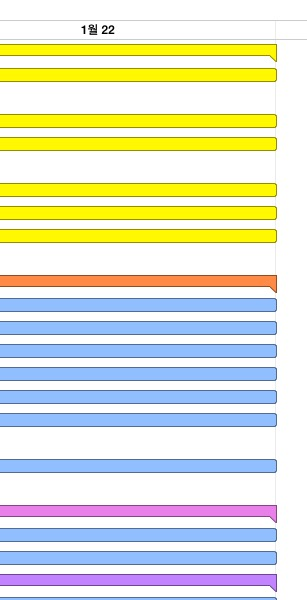
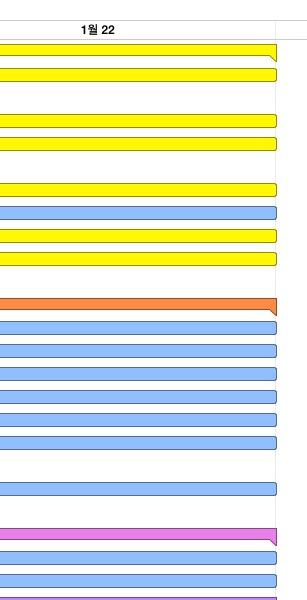
항목추가

Changed region(s): [[0.0, 0.72, 0.9088, 1.0], [0.0, 0.42, 0.9088, 0.54], [0.0, 0.33, 0.9088, 0.39]]

diff --git a/task.html b/task.html
@@ -132,7 +132,7 @@
             </tr>
             
             <tr class="taskTypeMilestone">
-                <td style="padding-left: 28px;" class="wrap">1.5) 기획완료</td>
+                <td style="padding-left: 28px;" class="wrap">1.5) 기획안 완료</td>
                 <td>2019. 1. 21. 오전 12:00</td>
                 <td>2019. 1. 21. 오전 12:00</td>
                 <td></td>
@@ -166,7 +166,7 @@
             </tr>
             
             <tr class="taskTypeTask">
-                <td style="padding-left: 28px;" class="wrap">1.7) 사이트 맵</td>
+                <td style="padding-left: 28px;" class="wrap">1.7) 기능정의서 완료</td>
                 <td>2019. 1. 21. 오전 11:00</td>
                 <td>2019. 1. 22. 오후 4:00</td>
                 <td>2일</td>
@@ -183,7 +183,24 @@
             </tr>
             
             <tr class="taskTypeTask">
-                <td style="padding-left: 28px;" class="wrap">1.8) 스토리 보드</td>
+                <td style="padding-left: 28px;" class="wrap">1.8) 사이트 맵</td>
+                <td>2019. 1. 21. 오전 11:00</td>
+                <td>2019. 1. 22. 오후 4:00</td>
+                <td>2일</td>
+                <td>0%</td>
+                <td></td>
+                <td align="right"></td>
+                <td></td>
+                <td></td>
+                <td></td>
+                <td></td>
+                <td></td>
+                <td></td>
+                <td></td>
+            </tr>
+            
+            <tr class="taskTypeTask">
+                <td style="padding-left: 28px;" class="wrap">1.9) 스토리 보드</td>
                 <td>2019. 1. 21. 오전 11:00</td>
                 <td>2019. 1. 22. 오후 4:00</td>
                 <td>2일</td>
@@ -200,7 +217,7 @@
             </tr>
             
             <tr class="taskTypeMilestone">
-                <td style="padding-left: 28px;" class="wrap">1.9) 스토리 보드 QA</td>
+                <td style="padding-left: 28px;" class="wrap">1.10) 스토리 보드 QA</td>
                 <td>2019. 1. 21. 오전 12:00</td>
                 <td>2019. 1. 21. 오전 12:00</td>
                 <td></td>

diff --git a/eva.html b/eva.html
@@ -138,7 +138,7 @@
 	</tr>
 		
 	<tr>
-		<td style="padding-left: 28px;" class="wrap">1.5) 기획완료</td>
+		<td style="padding-left: 28px;" class="wrap">1.5) 기획안 완료</td>
 		<td></td>
 		<td></td>
 		<td></td>
@@ -172,7 +172,7 @@
 	</tr>
 		
 	<tr>
-		<td style="padding-left: 28px;" class="wrap">1.7) 사이트 맵</td>
+		<td style="padding-left: 28px;" class="wrap">1.7) 기능정의서 완료</td>
 		<td></td>
 		<td></td>
 		<td></td>
@@ -189,7 +189,7 @@
 	</tr>
 		
 	<tr>
-		<td style="padding-left: 28px;" class="wrap">1.8) 스토리 보드</td>
+		<td style="padding-left: 28px;" class="wrap">1.8) 사이트 맵</td>
 		<td></td>
 		<td></td>
 		<td></td>
@@ -206,7 +206,24 @@
 	</tr>
 		
 	<tr>
-		<td style="padding-left: 28px;" class="wrap">1.9) 스토리 보드 QA</td>
+		<td style="padding-left: 28px;" class="wrap">1.9) 스토리 보드</td>
+		<td></td>
+		<td></td>
+		<td></td>
+		<td></td>
+		<td></td>
+		<td></td>
+		<td></td>
+		<td></td>
+		<td></td>
+		<td></td>
+		<td></td>
+		<td></td>
+		<td></td>
+	</tr>
+		
+	<tr>
+		<td style="padding-left: 28px;" class="wrap">1.10) 스토리 보드 QA</td>
 		<td></td>
 		<td></td>
 		<td></td>

diff --git a/gantt.html b/gantt.html
@@ -32,12 +32,12 @@
             <h1>옐로우플레이: <span class="subtitle">간트 차트</span></h1>
           <div class="tablewrap">  <table border="0" cellspacing="0" cellpadding="0">
 <tr>
-	<td><img src="include/gantt0,0.jpg?nocacheTag=-1008131994" border=0/></td>
-	<td><img src="include/gantt1,0.jpg?nocacheTag=1691041186" border=0/></td>
+	<td><img src="include/gantt0,0.jpg?nocacheTag=1174781395" border=0/></td>
+	<td><img src="include/gantt1,0.jpg?nocacheTag=187605225" border=0/></td>
 </tr>
 <tr>
-	<td><img src="include/gantt0,1.jpg?nocacheTag=-276575532" border=0/></td>
-	<td><img src="include/gantt1,1.jpg?nocacheTag=-850808672" border=0/></td>
+	<td><img src="include/gantt0,1.jpg?nocacheTag=-1941465195" border=0/></td>
+	<td><img src="include/gantt1,1.jpg?nocacheTag=1067994592" border=0/></td>
 </tr>
 </table>
 </div>

diff --git a/montecarlo.html b/montecarlo.html
@@ -62,7 +62,7 @@
 	       
 	          <table class="basic monte" id="resource-report">
             <tr class="montetitle">
-                <th>기획완료</th>
+                <th>기획안 완료</th>
                 <th>최상의 경우</th>
                 <th>최악의 경우</th>
                 <th>예상</th>
